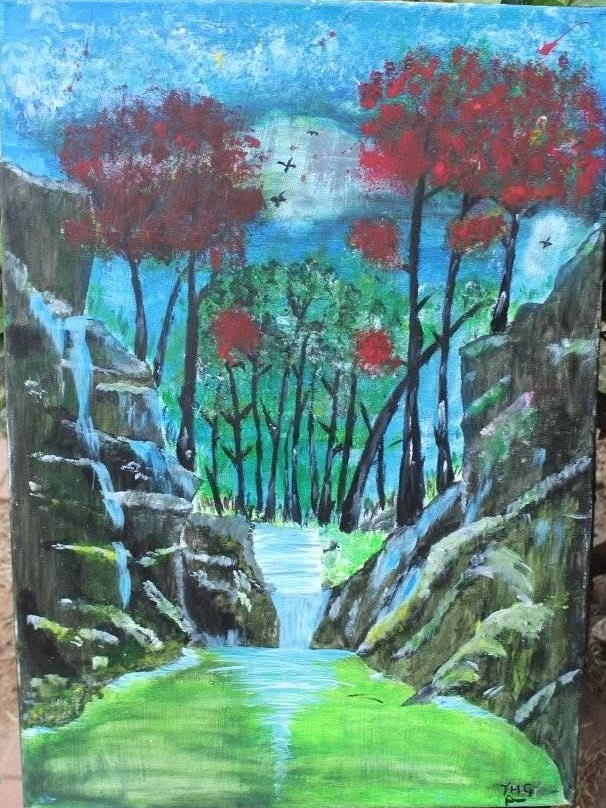
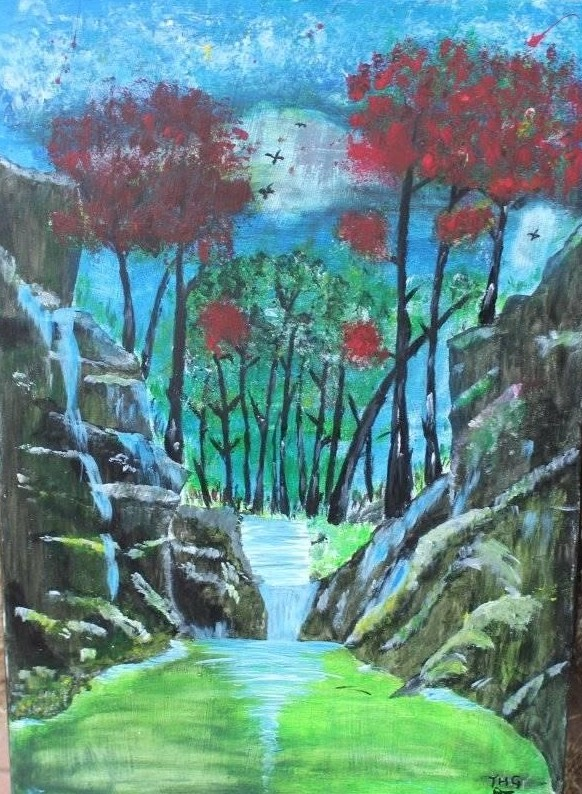
Sharpen the 3D gallery on phones
Render phones at 1.75x (was 1.25x) with 4x MSAA, and stop the adaptive
quality step-down from dropping below 1.25x on phones / 0.85x elsewhere.
The step-down now ignores the first seconds after load and needs two
seconds of sustained slow frames, so a load hiccup can't blur the scene
for the rest of the visit. Also tightens the Red Forest Falls crop.

diff --git a/site/gallery3d.js b/site/gallery3d.js
@@ -161,7 +161,8 @@ export function initGallery({ canvas, works, onStation, onReady, onLoadProgress,
   const info = gl.getExtension('WEBGL_debug_renderer_info');
   const gpu = info ? String(gl.getParameter(info.UNMASKED_RENDERER_WEBGL)) : '';
   const integrated = lite || /intel|uhd|iris|hd graphics|mali|adreno|powervr|swiftshader|llvmpipe|microsoft basic/i.test(gpu);
-  let dpr = Math.min(devicePixelRatio, lite ? 1.25 : integrated ? 1 : 1.5);
+  // phones have ~2.5-3x screens; below ~1.25x the artwork turns visibly soft and blocky
+  let dpr = Math.min(devicePixelRatio, lite ? 1.75 : integrated ? 1 : 1.5);
   renderer.setPixelRatio(dpr);
   renderer.setSize(canvas.clientWidth, canvas.clientHeight, false);
   renderer.outputColorSpace = THREE.SRGBColorSpace;
@@ -498,7 +499,7 @@ export function initGallery({ canvas, works, onStation, onReady, onLoadProgress,
   const size = new THREE.Vector2(canvas.clientWidth, canvas.clientHeight);
   const rt = new THREE.WebGLRenderTarget(size.x * dpr, size.y * dpr, {
     type: THREE.HalfFloatType,
-    samples: lite ? 0 : integrated ? 2 : 4,
+    samples: integrated && !lite ? 2 : 4, // MSAA is nearly free on phones' tile-based GPUs
   });
   const composer = new EffectComposer(renderer, rt);
   composer.setPixelRatio(dpr);
@@ -591,7 +592,7 @@ export function initGallery({ canvas, works, onStation, onReady, onLoadProgress,
   /* loop ---------------------------------------------------------- */
   let running = true, lastStation = null;
   let idleFlip = false, slowTime = 0, sampleTime = 0;
-  const minDpr = lite ? 0.6 : 0.7;
+  const minDpr = lite ? 1.25 : 0.85; // never trade away so much resolution that the art blurs
   const clock = new THREE.Clock();
   const lookTgt = new THREE.Vector3();
 
@@ -664,11 +665,12 @@ export function initGallery({ canvas, works, onStation, onReady, onLoadProgress,
 
   // adaptive resolution: if frames run long while walking, step the pixel ratio down
   function adaptQuality(dt, moving) {
-    if (!moving || lightsStart < 0) return;
+    // ignore the first seconds after load, when one-off work makes any device look slow
+    if (!moving || lightsStart < 0 || performance.now() - lightsStart < 2500) return;
     sampleTime += dt;
-    if (dt > 1 / 45) slowTime += dt;
-    if (sampleTime < 1.2) return;
-    if (slowTime / sampleTime > 0.4) stepDown();
+    if (dt > 1 / 40) slowTime += dt;
+    if (sampleTime < 2) return;
+    if (slowTime / sampleTime > 0.6) stepDown();
     sampleTime = slowTime = 0;
   }
 
@@ -683,7 +685,7 @@ export function initGallery({ canvas, works, onStation, onReady, onLoadProgress,
       return;
     }
     if (dpr > minDpr) {
-      dpr = Math.max(minDpr, +(dpr - 0.2).toFixed(2));
+      dpr = Math.max(minDpr, +(dpr - 0.25).toFixed(2));
       renderer.setPixelRatio(dpr);
       composer.setPixelRatio(dpr);
       resize();
